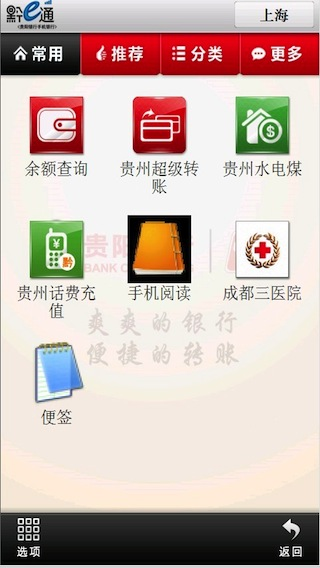
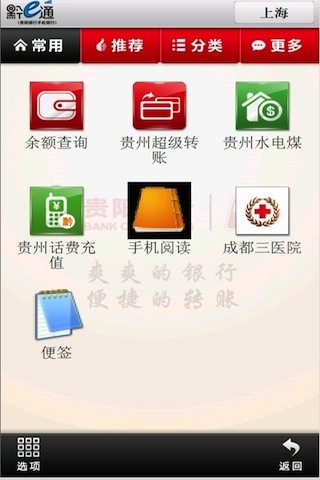
Updated the screenshots' sizes of qianetong app

diff --git a/apps/featured_apps/qianetong.html b/apps/featured_apps/qianetong.html
@@ -1,8 +1,8 @@
 ---
 layout: default
 title: 黔e通
-customCss: [/slideshow/featured_apps/iphone_1136/engine/css/slideshow.css]
-customJs: [/slideshow/featured_apps/iphone_1136/engine/js/mootools.js, /slideshow/featured_apps/iphone_1136/engine/js/visualslideshow.js]
+customCss: [/slideshow/featured_apps/iphone_960/engine/css/slideshow.css]
+customJs: [/slideshow/featured_apps/iphone_960/engine/js/mootools.js, /slideshow/featured_apps/iphone_960/engine/js/visualslideshow.js]
 ---
 
 <div id="show" class="slideshow">
